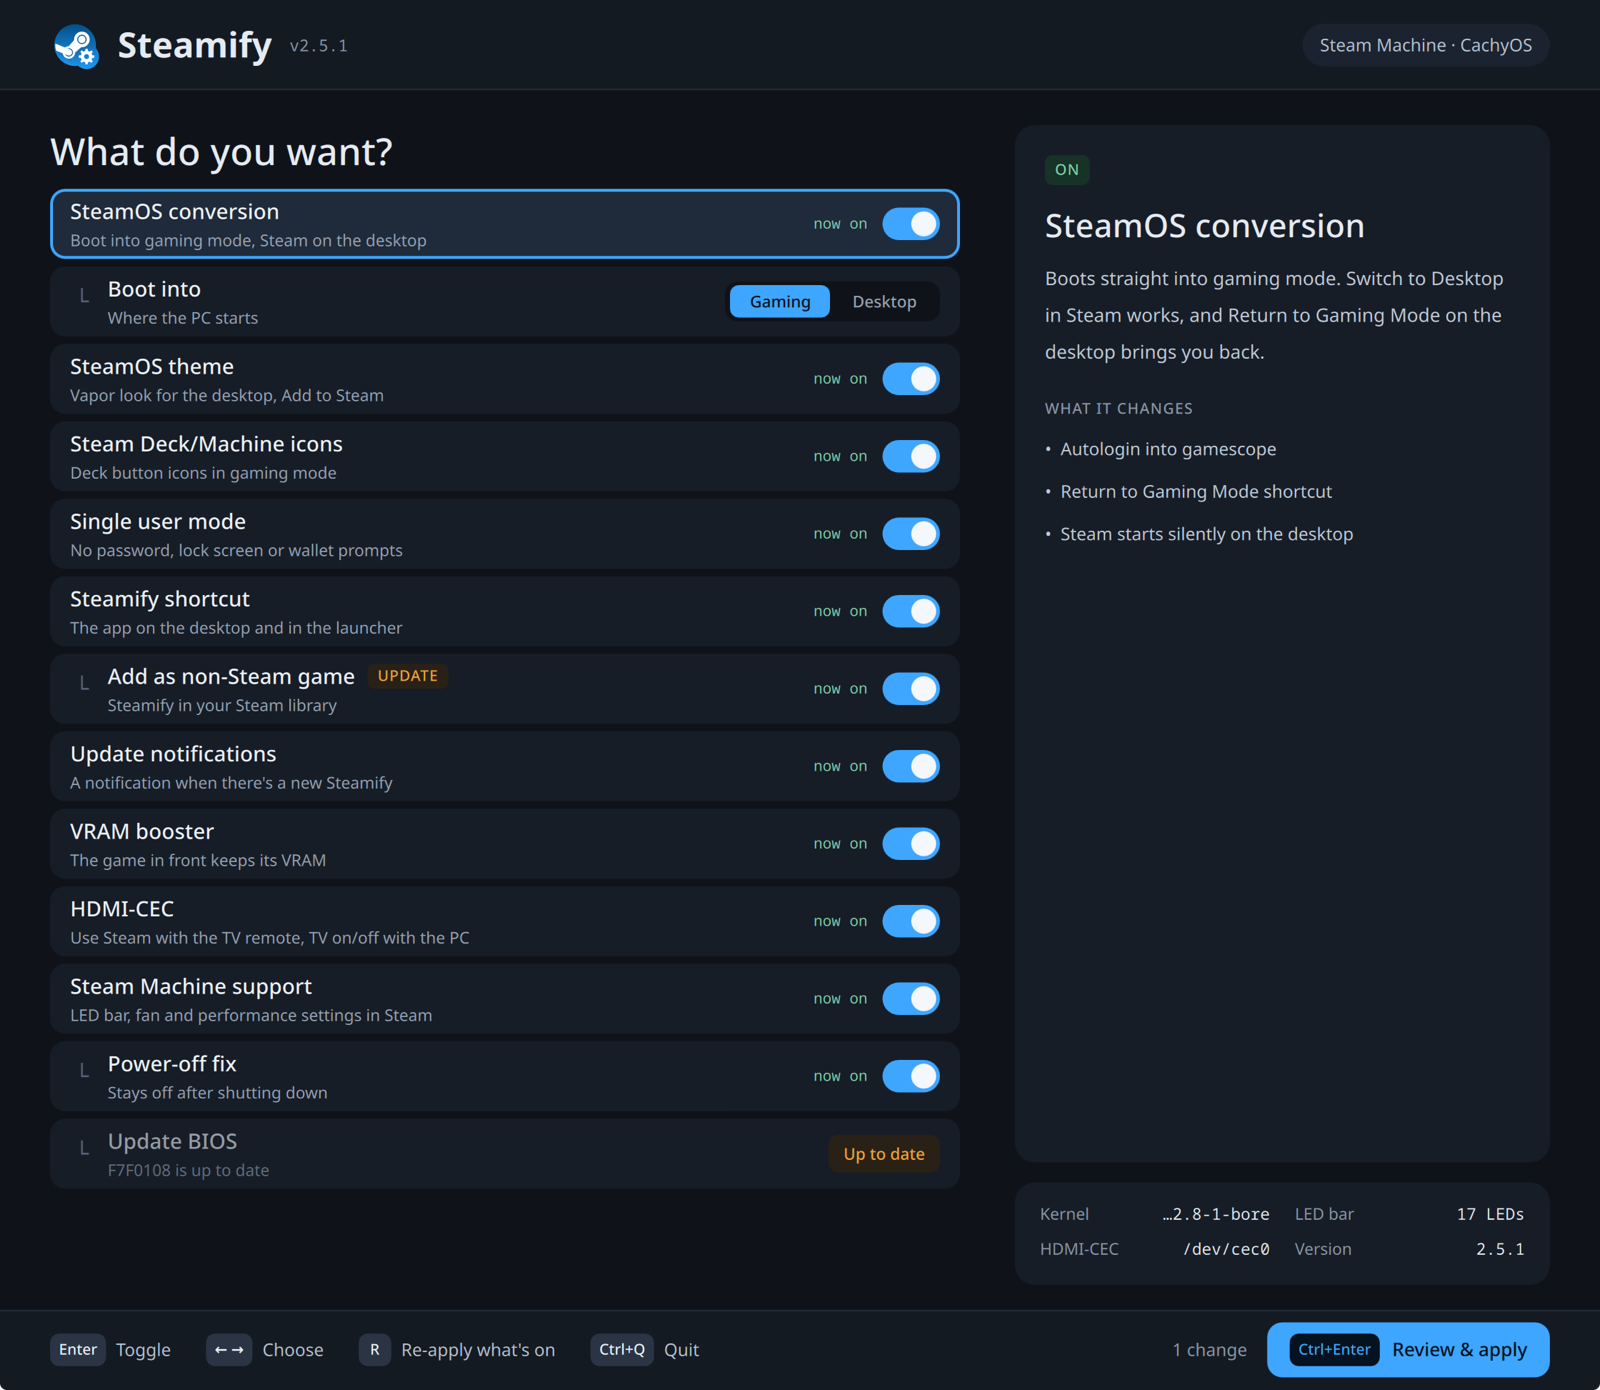
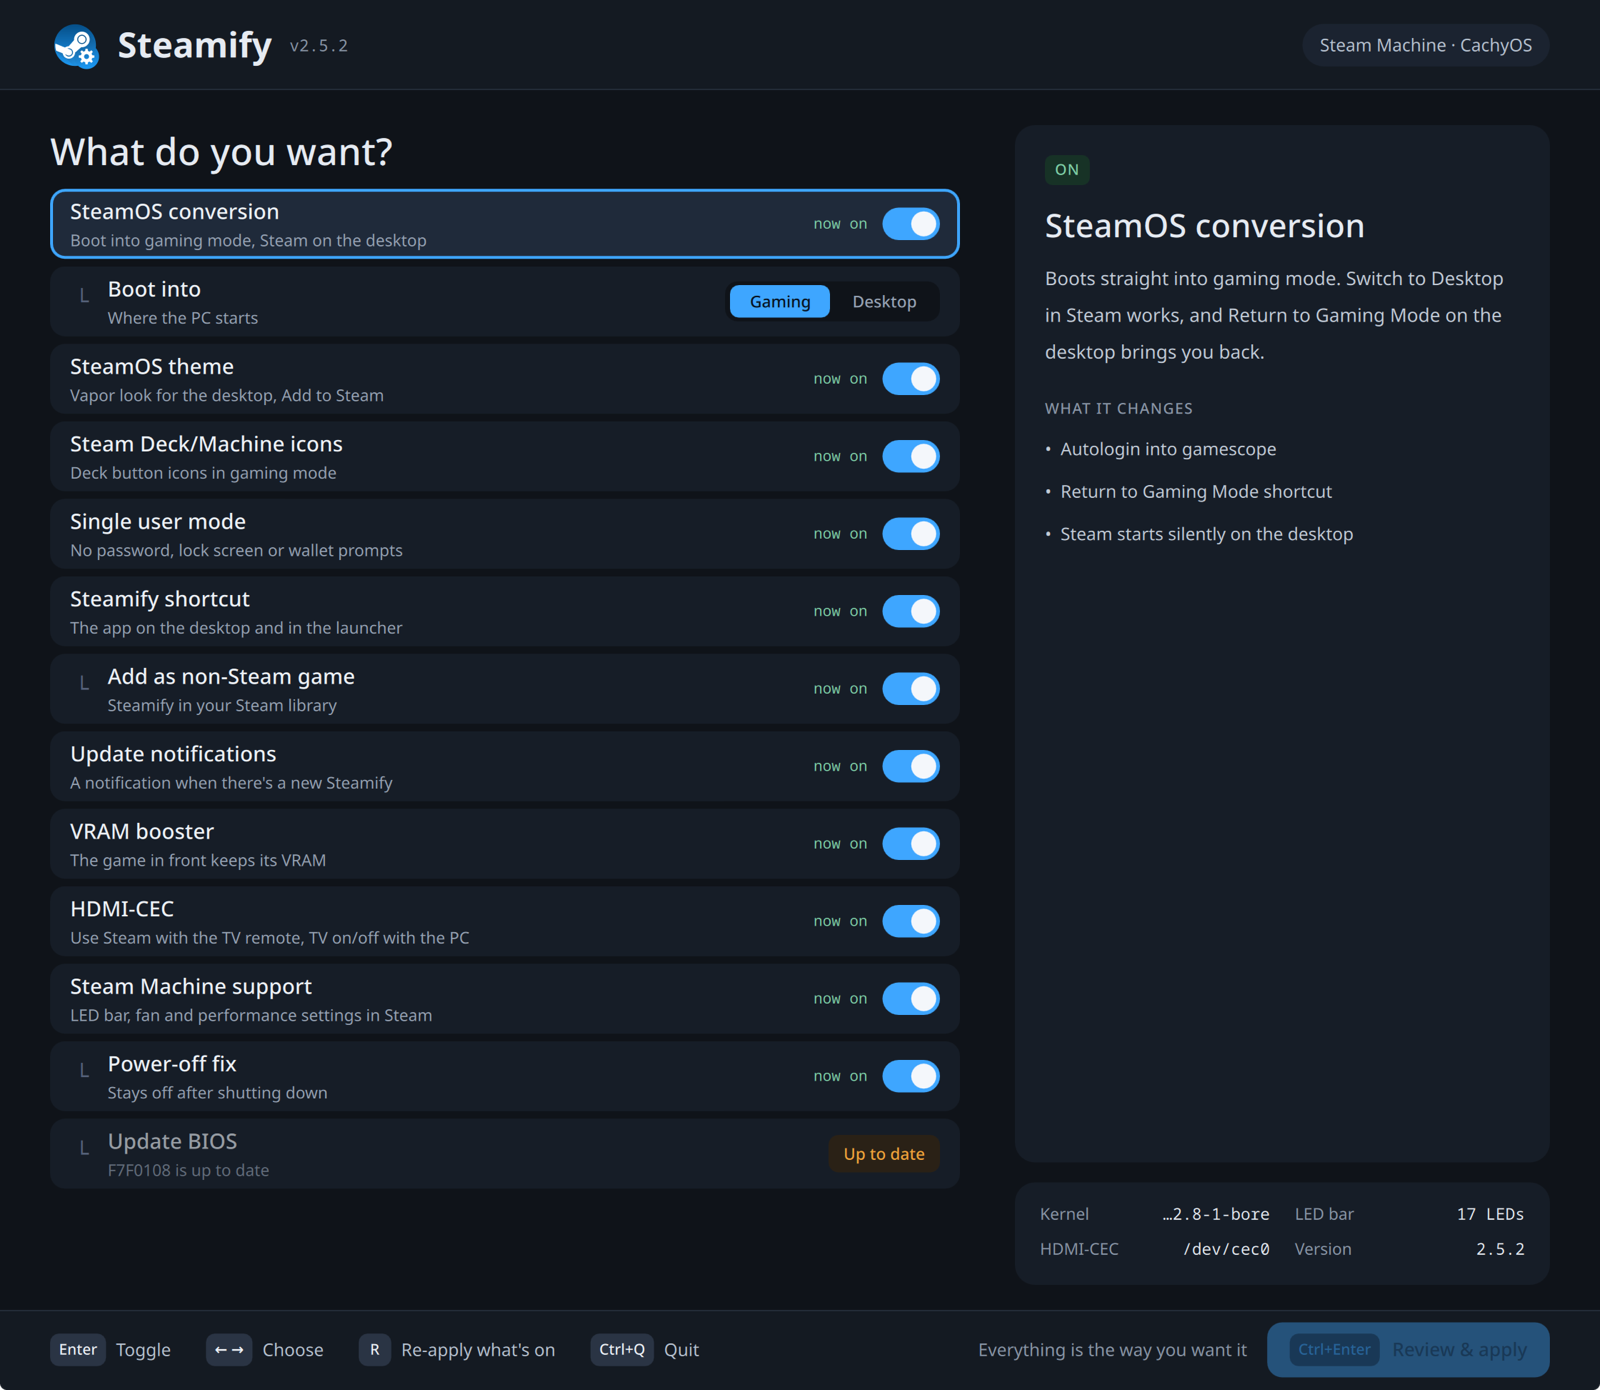
docs: README screenshot at 2.5.2: everything on, nothing to update

Changed region(s): [[0.625, 0.9281, 0.9688, 1.0], [0.25, 0.464, 0.2812, 0.495]]

diff --git a/CHANGELOG.md b/CHANGELOG.md
@@ -5,6 +5,10 @@ All notable changes, per version and per commit. Versions follow
 `steamify.sh`. Versions before 0.7.0 were numbered afterwards,
 one per merged pull request.
 
+## 2.5.2 - 2026-09-27
+
+- **docs: README screenshot at 2.5.2: everything on, nothing to update**
+
 ## 2.5.1 - 2026-09-27
 
 - **fix: Add as non-Steam game asks Steam to close again every 15 s (a Steam that was still starting ignored it)**
